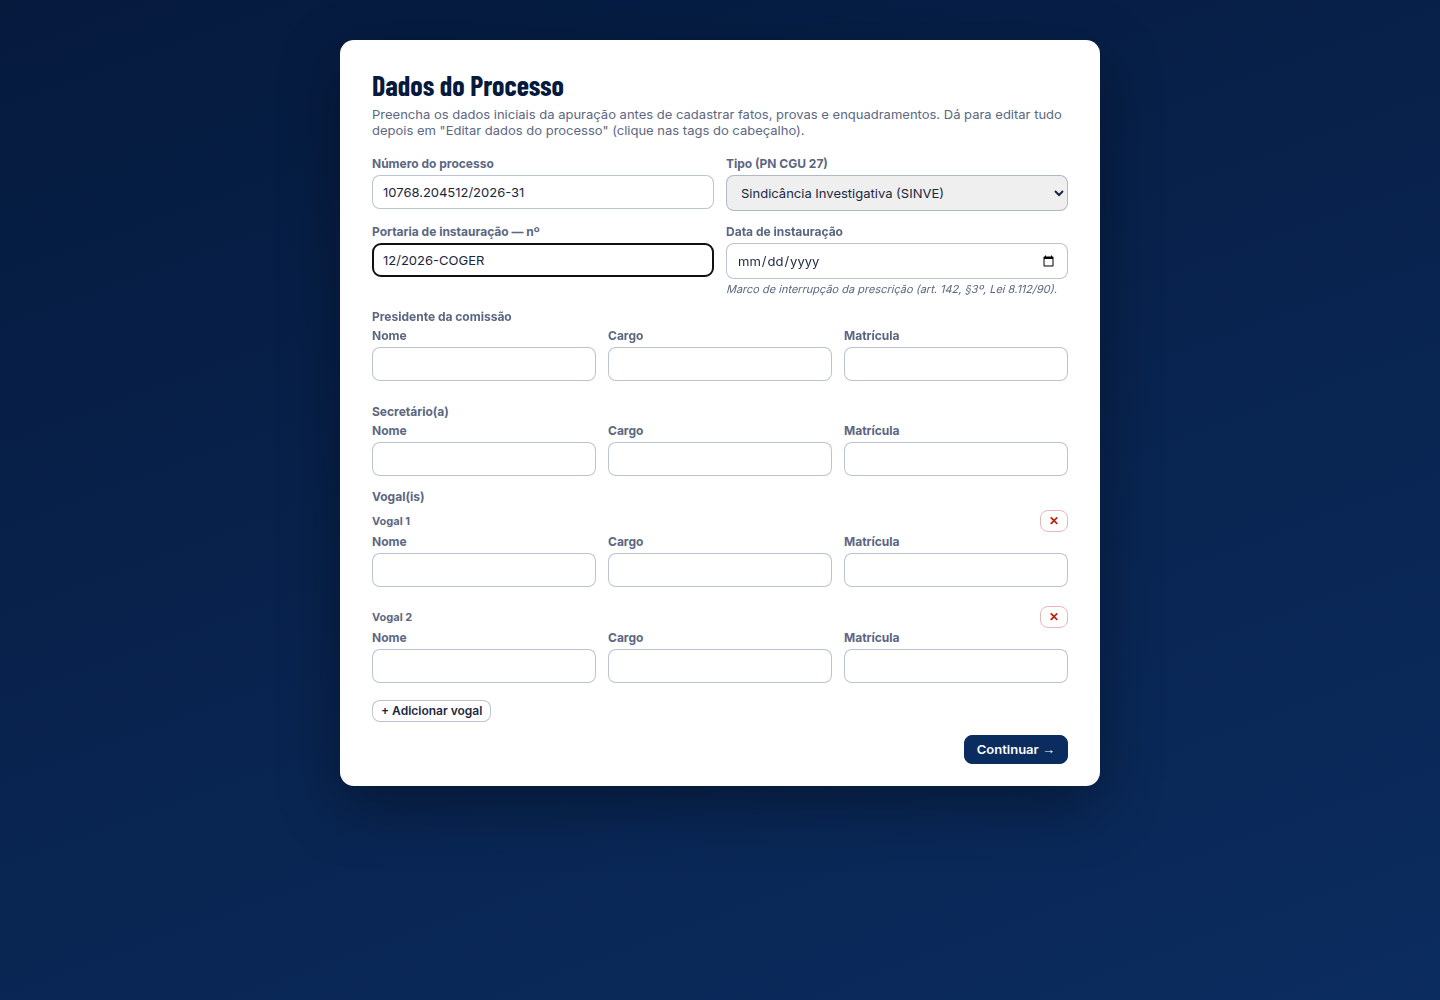
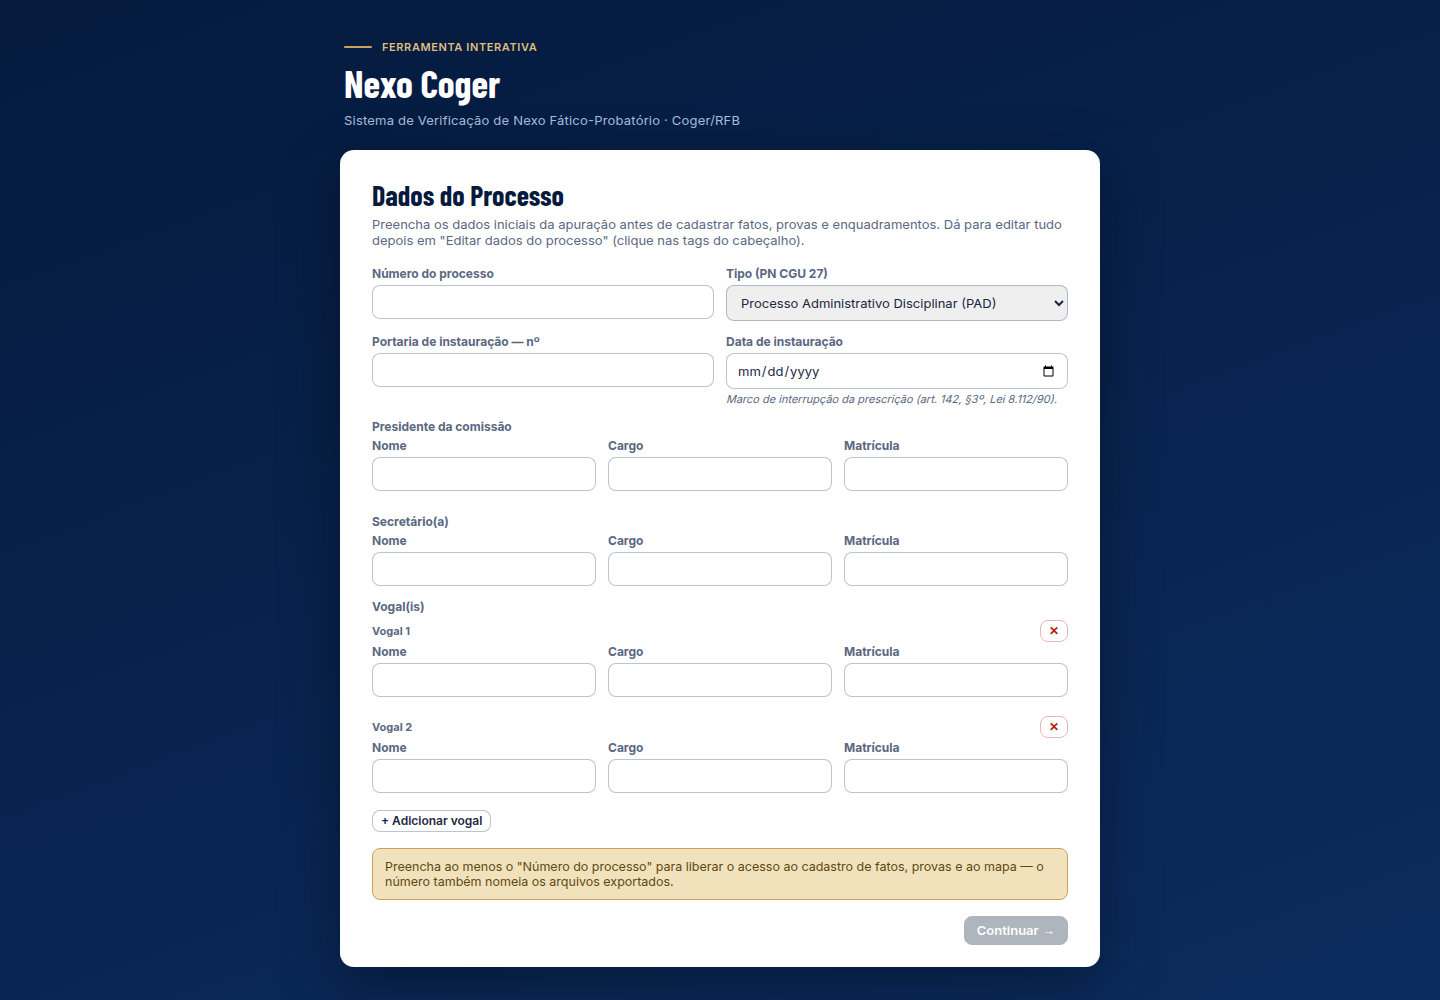
Nexo Coger: adiciona hero institucional à tela Dados do Processo
O gate de primeira etapa cobria o hero (nome do sistema) por estar
em z-index acima dele. Acrescentado um cabeçalho compacto dentro do
próprio gate (eyebrow + "Nexo Coger" + subtítulo), na mesma paleta
navy/dourado do hero principal, para manter a identidade visual
visível mesmo antes do usuário liberar o acesso ao resto do app.

Claude-Session: https://claude.ai/code/session_019TkBr2ojrYkVdSWfuME47B

diff --git a/ferramentas/nexo-coger.html b/ferramentas/nexo-coger.html
@@ -438,8 +438,14 @@ svg.map{display:block}
 .block > .block-title{font-size:12px;font-weight:800;text-transform:uppercase;letter-spacing:.4px;
   color:var(--ink-2);margin-bottom:10px;display:flex;align-items:center;gap:8px}
 /* Gate — Dados do processo (primeira tela, bloqueia o resto do app) */
-.gate{position:fixed;inset:0;z-index:9999;display:flex;align-items:flex-start;justify-content:center;
+.gate{position:fixed;inset:0;z-index:9999;display:flex;flex-direction:column;align-items:center;justify-content:flex-start;
   padding:40px 16px;overflow:auto;background:linear-gradient(160deg,var(--rfb-navy-900) 0%,var(--rfb-navy-800) 100%)}
+.gate-hero{max-width:760px;width:100%;margin:0 0 22px;padding:0 4px}
+.gate-hero__eyebrow{display:inline-flex;align-items:center;gap:10px;font-size:11px;font-weight:600;
+  letter-spacing:.6px;text-transform:uppercase;color:var(--rfb-gold-400)}
+.gate-hero__eyebrow::before{content:"";width:28px;height:2px;background:var(--rfb-gold-500);border-radius:1px;display:inline-block}
+.gate-hero__title{margin:6px 0 0;font-family:var(--rfb-font-display);font-size:clamp(26px,4vw,38px);font-weight:700;color:#fff}
+.gate-hero__sub{margin:6px 0 0;font-size:13px;color:#A8BEDD;letter-spacing:.2px}
 .gate-card{background:var(--paper);color:var(--ink);max-width:760px;width:100%;border-radius:14px;
   padding:28px 32px 22px;box-shadow:0 20px 60px rgba(0,0,0,.35)}
 .gate-card h1{font-family:var(--rfb-font-display);font-size:28px;margin:0 0 4px;color:var(--rfb-navy-900)}
@@ -523,6 +529,11 @@ svg.map.isolating .node.hl{opacity:1}
      (ver init()/atualizarGateProcesso()). Rótulos e formato do bloco de comissão seguem o mesmo
      vocabulário do Oitiva 360 (Presidente da comissão / Secretário(a) / Vogais + "+ Adicionar vogal"). -->
 <div class="gate" id="gate" style="display:none">
+  <div class="gate-hero">
+    <span class="gate-hero__eyebrow">Ferramenta interativa</span>
+    <h1 class="gate-hero__title">Nexo Coger</h1>
+    <p class="gate-hero__sub">Sistema de Verificação de Nexo Fático-Probatório · Coger/RFB</p>
+  </div>
   <div class="gate-card" id="gateCard"></div>
 </div>
 